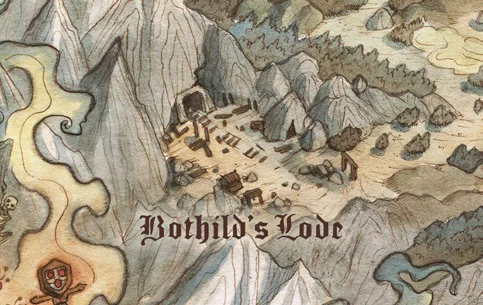
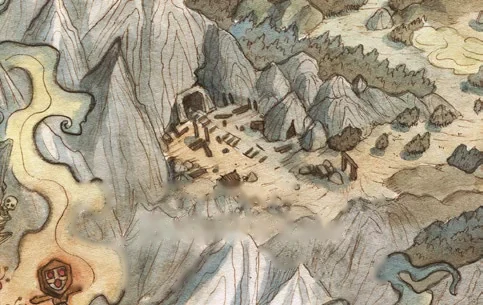
Dragonbane: Begriffe ans Regelbuch angeglichen, englische Schrift aus Titelbildern entfernt

diff --git a/dragonbane/js/data/ab-pg-herz-c.js b/dragonbane/js/data/ab-pg-herz-c.js
@@ -118,7 +118,7 @@ A.bereiche.push(
    "Unabhängig davon, ob und wie die Charaktere antworten, fährt er unbekümmert fort:",
    {zit:["„Ihr amüsiert mich. Deshalb gebe ich euch eine Chance zu überleben und jedem, dem ihr begegnet, von eurem Gespräch mit dem künftigen Herrscher dieser Welt zu erzählen: Dakoth, König der Könige, Kaiser der Kaiser. Ich habe nur eine winzige Forderung … Das Herz bleibt hier, bei mir.“"]},
    "**Kampf:** Die Wahrscheinlichkeit, dass die Spielercharaktere gehorchen, ist natürlich gering, also beginnt der Kampf wahrscheinlich, auf Initiative der Charaktere oder weil Dakoth des Wartens auf ihre Antwort müde wird.",
-   "**Die Leibwächter** beschützen ihren Meister, was bedeutet, dass die Charaktere ihn nicht leicht im Nahkampf angreifen können und bei Fernangriffen auf ihn einen Nachteil erhalten. Die Leibwächter nutzen *Wächter* und ihre anderen Heldentalente so oft wie möglich, bis ihnen die WP ausgehen.",
+   "**Die Leibwächter** beschützen ihren Meister, was bedeutet, dass die Charaktere ihn nicht leicht im Nahkampf angreifen können und bei Fernangriffen auf ihn einen Nachteil erhalten. Die Leibwächter nutzen *Wächter* und ihre anderen Heroische Talente so oft wie möglich, bis ihnen die WP ausgehen.",
    "**Morgasa** greift ein, wenn die Charaktere sie überzeugt haben, ihnen zu helfen. In diesem Fall nimmt sie sich einen der Leibwächter vor, was bedeutet, dass du die beiden ignorieren kannst, während sie miteinander kämpfen (Morgasa gewinnt mit knapper Not), und die Spielercharaktere es mit Dakoth und dem anderen Leibwächter zu tun bekommen.",
    "**Dakoth** selbst setzt seine Magie mit maximaler Wirkung ein. Er ist ein Meisterzauberer und kann daher zwei Zauber pro Zug wirken. Siehe den Kasten auf S. 148. Beachte auch, dass sein Stab zusätzliche WP enthält.",
    "**Das Herz der Finsternis** kann von den Spielercharakteren im Kampf benutzt werden, und seine mächtigen Wirkungen (siehe den Kasten auf S. 145) können durchaus den Ausgang bestimmen.",
@@ -175,7 +175,7 @@ A.bereiche.push(
    "Werden alle Spielercharaktere besiegt und gelingt es ihnen nicht, das Herz zu zerstören, sinkt Sathmog nach dem Kampf wieder in den Boden – er ist noch nicht stark genug, um durchzubrechen –, aber das Herz der Finsternis überlebt und wird von einem vorbeikommenden NSC gefunden. Wer das ist, liegt bei dir.",
    "Gelingt es den Charakteren, das Herz auf dem Altar mit dem Dolch zu durchbohren, ist ihre Prüfung endlich vorbei. Lies oder spiele Folgendes vor:",
    {zit:["Das kleine Herz beginnt schneller und härter zu schlagen, als der Dolch gehoben wird. Aber es ist wehrlos, der Klinge des Dolches ausgeliefert. Als die Spitze das Herz durchbohrt, wirft euch eine plötzliche Druckwelle taumelnd zurück. Der Dämonenkopf sinkt zurück in den Boden, während die Druckwelle die toten Bäume um euch herum rascheln und schwanken lässt. Wenige Augenblicke später herrscht völlige Stille. Erst dann bemerkt ihr, dass derjenige, der das Messer ins Herz gestoßen hat, leblos am Boden liegt."]},
-   "Der Spielercharakter, der das Herz durchbohrt hat, hat alle TP verloren und muss Todeswürfe machen (Regelbuch S. 50). Andere können normal versuchen, das Leben des Charakters zu retten. Hier ist es auch angemessen, auf eine schwere Verletzung zu würfeln (Regelbuch S. 51). Überlebt der Charakter, erhält er als Belohnung ein zusätzliches Heldentalent seiner Wahl (Kapitel 3 des Regelbuchs). Wenn dieses letzte Zwischenspiel vorbei ist, schließe mit dem Vorlesen des folgenden Textes ab:",
+   "Der Spielercharakter, der das Herz durchbohrt hat, hat alle TP verloren und muss Todeswürfe machen (Regelbuch S. 50). Andere können normal versuchen, das Leben des Charakters zu retten. Hier ist es auch angemessen, auf eine schwere Verletzung zu würfeln (Regelbuch S. 51). Überlebt der Charakter, erhält er als Belohnung ein zusätzliches Heroisches Talent seiner Wahl (Kapitel 3 des Regelbuchs). Wenn dieses letzte Zwischenspiel vorbei ist, schließe mit dem Vorlesen des folgenden Textes ab:",
    {zit:["Es fühlt sich an, als sei euch eine Last von den Schultern genommen worden, ein Druck in eurer Brust lässt nach und verschwindet. Als Erste verleiht diesem Gefühl ein Schwarm kleiner Vögel Ausdruck, der sich in den heller werdenden Himmel erhebt und aus voller Kehle singt – das erste Zeichen dafür, dass das Leben langsam an diesen leblosen Ort zurückkehrt. Der Tote Wald ist befreit, die Welt ist gerettet, und ihr seid die Helden, die es getan haben!"]},
    {h:"Weitere Abenteuer", p:153},
    "*Pfad des Ruhms* ist zu Ende, doch das bedeutet nicht, dass die Abenteuer der Spielercharaktere vorbei sind. Es gibt reichlich Anknüpfungspunkte für weiteres Spiel im Toten Wald, in den Ostlanden oder anderswo, mit selbst erdachten oder vorgefertigten Abenteuern – offiziell oder von anderen unter der Drittanbieterlizenz für *Dragonbane* veröffentlicht.",
@@ -228,14 +228,14 @@ Object.assign(A.figuren, {
   ]}},
  "herz-dakoth":{typ:"nsc", t:"Dakoth", p:148, img:"abenteuer/pg-einf-dakoth", tp:44,
   werte:[["Bewegung","12"],["Rüstung","–"],["TP","44"],["WP","48"]],
-  zl:[["Fertigkeiten","Nekromantie 18 (siehe den Kasten Dakoths Zauber), Mentalismus 17, Elementarmagie 16, Raufen 14, Ausweichen 15"],["Talente","Flinke Füße, Furchtlos, Fokussiert × 15, Meisterzauberer, Robust × 15, Wiesel"],["Zauber","Schrecken, Hand des Todes, Lebensentzug, Magischer Schild, Übertragung, Frost, Steinhaut, Beherrschen"],["Stab","Meisterhaft, mit AUFLADEN und DAUERHAFTIGKEIT, enthält 18 zusätzliche WP."]],
+  zl:[["Fertigkeiten","Nekromantie 18 (siehe den Kasten Dakoths Zauber), Mentalismus 17, Elementarmagie 16, Raufen 14, Ausweichen 15"],["Talente","Flinke Füße, Furchtlos, Konzentriert × 15, Meisterzauberer, Robust × 15, Wiesel"],["Zauber","Schrecken, Hand des Todes, Lebensentzug, Magischer Schild, Übertragung, Frost, Steinhaut, Beherrschen"],["Stab","Meisterhaft, mit AUFLADEN und DAUERHAFTIGKEIT, enthält 18 zusätzliche WP."]],
   text:["Theatralisch, arrogant und vor Selbstvertrauen strotzend. Schon als er als junger Lehrling zum ersten Mal vom Herz der Finsternis erfuhr, wusste er, dass das Herz eines Tages ihm gehören würde. Und nichts in dem Leben, das er bisher geführt hat, deutet darauf hin, dass sein Weg zu etwas anderem als zur Weltherrschaft führen wird.","Einige Jahre lang geschahen so viele andere erstaunliche Dinge, dass er seine Suche nach dem Herzen fast vergaß. Doch verbotene Texte, die er in vergessenen Katakomben unter seiner Heimatstadt Arkand fand, weckten seinen Durst nach der Äußeren Finsternis – einer kalten, bösartigen Macht in der Dunkelheit zwischen den Sternen, die darauf aus ist, alles Leben auszulöschen.","Je mehr Dakoth lernte, desto mächtiger wurde er – aber auch desto machthungriger, was erklärt, warum er mit der Eroberung der Ostlande begann. Nach vielen Wendungen (mehr dazu auf S. 6) ist er nun nur noch einen Haarbreit davon entfernt, seinen Kindheitstraum zu erfüllen, und er ist überzeugt, dass das Herz der Finsternis, verbunden mit der Macht der Äußeren Finsternis, ihn völlig unaufhaltsam machen wird!"]},
  "herz-leibwaechter":{typ:"monster", t:"Dakoths Leibwächter", p:149, img:"abenteuer/pg-herz-skelett-leibwache", tp:36,
   werte:[["Bewegung","10"],["Schadensbonus STÄ","+W6"],["TP","36"],["WP","15"]],
   zl:[["Rüstung","Plattenrüstung (6)"],["Fertigkeiten","Wahrnehmung 6, Ausweichen 8"],["Talente","Berserker, Defensiv, Doppelhieb, Wächter, Robust × 10"],["Waffen","Langschwert (Fertigkeitswert 16, Schaden 2W8), Großer Schild"],["Widerstand","Jeder stechende Schaden wird halbiert (aufgerundet)."],["Immunität","Skelette sind immun gegen Furcht und §Überzeugen§."]], be:"skelett"},
  "herz-karlak":{typ:"nsc", t:"Karlak Sol-Tar & Ash-Ark-Afar", p:150, img:"abenteuer/pg-einf-karlak-sol-tar",
   werte:[["Grimmigkeit","3"],["Größe","Riesig"],["Bewegung","24 (Drache), 10 (Reiter)"],["Rüstung","6 (Drache), 8 (Reiter)"],["TP","84 (Drache), 48 (Reiter)"],["WP","24 (nur Reiter)"]],
-  zl:[["Flügel","Die mächtigen Flügel des Drachen erlauben es ihm, sich frei durch die Luft zu bewegen."],["Heldentalente","Defensiv, Robust × 15"],["Ausrüstung","Langschwert (meisterhaft), Plattenrüstung, Topfhelm, Umhang, acht Rationen Essen."]],
+  zl:[["Flügel","Die mächtigen Flügel des Drachen erlauben es ihm, sich frei durch die Luft zu bewegen."],["Heroische Talente","Defensiv, Robust × 15"],["Ausrüstung","Langschwert (meisterhaft), Plattenrüstung, Topfhelm, Umhang, acht Rationen Essen."]],
   text:["Der Drachenreiter und sein Reittier werden als ein einziges Monster behandelt, jedoch mit getrennten TP. Die Spielercharaktere können wählen, ob sie den Drachen oder den Reiter angreifen – Letzterer kann, solange er auf dem Drachenrücken sitzt, nur mit Fernangriffen oder langen Nahkampfwaffen angegriffen werden.","Wird der Drache getötet, kämpft Karlak Sol-Tar allein weiter (als gewöhnlicher NSC) und kämpft nun bis zum Tod, um sein Reittier zu rächen.","Der Drache hingegen hört auf zu kämpfen, wenn sein Reiter besiegt ist – stattdessen hebt er Karlak Sol-Tar sanft in seinen Klauen auf und fliegt zurück ins Drachenreich im fernen Osten."],
   angriffe:{h:"Monsterangriffe", w:"W6", rows:[
    ["1","**Drachengebrüll!** Ash-Ark-Afar öffnet sein Maul und stößt ein wildes Gebrüll aus. Jeder innerhalb von 20 Metern erleidet einen Furchtangriff, mit einem Nachteil auf den WIL-Wurf."],
@@ -262,7 +262,7 @@ Object.assign(A.kaesten, {
   "Haben die Spielercharaktere Mogdath noch nicht in Tefalas’ Dolch gefangen, begleitet er seinen Meister zum Dämonenturm und ersetzt einen der Leibwächter. Die Charaktere haben dann einen noch schwereren Kampf vor sich, aber auch eine weitere Chance, einen Todeswiedergänger im Dolch zu fangen."]},
  "dakoths-fall":{k:"Dakoths Fall", p:151, b:[
   "Die Konfrontation am Dämonenturm endet höchstwahrscheinlich mit dem Tod des hochmütigen Dakoth.",
-  "Ohne ihren nekromantischen Anführer bricht seine Armee der Untoten zusammen, und seine versklavten Orks fliehen in die Berge und Wälder. Damit haben die Spielercharaktere die Ostlande von einer schrecklichen Geißel befreit und erhalten jeweils ein Heldentalent ihrer Wahl (Kapitel 3 des Regelbuchs). Aber ihre Aufgabe ist noch nicht beendet – der Fluch des Toten Waldes muss noch aufgehoben werden."]}
+  "Ohne ihren nekromantischen Anführer bricht seine Armee der Untoten zusammen, und seine versklavten Orks fliehen in die Berge und Wälder. Damit haben die Spielercharaktere die Ostlande von einer schrecklichen Geißel befreit und erhalten jeweils ein Heroisches Talent ihrer Wahl (Kapitel 3 des Regelbuchs). Aber ihre Aufgabe ist noch nicht beendet – der Fluch des Toten Waldes muss noch aufgehoben werden."]}
 });
 
 A.handouts.push(

diff --git a/dragonbane/js/data/ab-trollspitze.js b/dragonbane/js/data/ab-trollspitze.js
@@ -91,7 +91,7 @@ DB_AB.trollspitze = {
  ],
  figuren:{
   "troll-ambrosius":{"typ":"monster","t":"Ambrosius, die Kröte","p":69,"img":"abenteuer/trollspitze-ambrosius","tp":24,"werte":[["Grimmigkeit","Anzahl SC −1 (mind. 1)"],["Größe","Klein"],["Bewegung","8"],["Rüstung","–"],["TP","24"]],"zl":[["Sich tot stellen","Verliert Ambrosius die Hälfte seiner TP, rollt er sich auf den Rücken und stellt sich tot. Bei Gelegenheit greift er wieder an."]],"text":["Die gehörnte Kröte Ambrosius ist so groß wie ein Hund und das Ergebnis von Hargas Experimenten. Er bewacht gegen Eindringlinge, frisst aber auch die Fliegen, die die magische Forschung der Trollfrau störten. Ambrosius hält still und leise; nur wenn er gefressen hat, hört man ihn zufrieden quaken."],"angriffe":{"h":"Monsterangriffe","w":"W4","rows":["**Kopfstoß!** Die Kröte springt hoch und stößt einen Spielercharakter mit dem Kopf, was 2W4 Wuchtschaden verursacht und das Opfer umwirft.","**Giftiger Biss!** Ambrosius beißt einen Spielercharakter ins Bein. Der Biss verursacht W10 hauenden Schaden, und ein Opfer, das mindestens einen Punkt Schaden erleidet, bekommt zusätzlich ein lähmendes Gift mit Wirkstärke 12 injiziert.","**Spuckangriff!** Ambrosius zielt mit einem riesigen Batzen Spucke auf einen Spielercharakter innerhalb von 10 Metern. Die Spucke verursacht W6 Schaden, und ein Opfer, das mindestens einen Punkt Schaden erleidet, wird zusätzlich von einem lähmenden Gift mit Wirkstärke 12 getroffen.","**Entwaffnende Zunge!** Die Kröte schnellt ihre lange Zunge auf einen Spielercharakter innerhalb von 6 Metern und entreißt ihm eine Waffe aus der Hand. Die Waffe landet in Ambrosius’ Nest."]}},
-  "troll-harga":{"typ":"nsc","t":"Harga","p":70,"img":"abenteuer/trollspitze-harga","tp":28,"werte":[["Bewegung","8"],["Schadensbonus STÄ","+W4"],["TP","28"],["WP","16"]],"zl":[["Rüstung","–"],["Fertigkeiten","Animismus 16, Mentalismus 17, Ausweichen 8, Heilkunde 15"],["Zauber","Herbeiholen, Licht, Öffnen/Schließen, Magie spüren, Bannen, Fesselnde Wurzeln, Abschließen/Aufschließen, Kraftfaust, Steinhaut, Geistesschlag, Hellsehen, Telepathie, Beherrschen"],["Ausrüstung","Schöpflöffel (Fertigkeitswert 13, Schaden W8)"]],"text":["Harga ist eine sehr kleine alte Trollfrau, die nach Rauch stinkt und ein Kopftuch und eine Tunika aus mehrlagigem Stoff trägt. Sie benutzt keine Monsterangriffe, sondern wird wie ein gewöhnlicher NSC behandelt. Harga kann den Spielercharakteren Tränke zu dem im Regelbuch (S. 79) angegebenen Preis verkaufen. Wenn sie sie gut bezahlen, kann Harga ihnen auch ihre Fertigkeiten und Magie beibringen."]},
+  "troll-harga":{"typ":"nsc","t":"Harga","p":70,"img":"abenteuer/trollspitze-harga","tp":28,"werte":[["Bewegung","8"],["Schadensbonus STÄ","+W4"],["TP","28"],["WP","16"]],"zl":[["Rüstung","–"],["Fertigkeiten","Animismus 16, Mentalismus 17, Ausweichen 8, Heilkunde 15"],["Zauber","Herbeiholen, Licht, Öffnen/Schließen, Magie spüren, Bannen, Fesselnde Wurzeln, Abschließen/Aufschließen, Kraftfaust, Steinhaut, Geistesschlag, Rückschau, Telepathie, Beherrschen"],["Ausrüstung","Schöpflöffel (Fertigkeitswert 13, Schaden W8)"]],"text":["Harga ist eine sehr kleine alte Trollfrau, die nach Rauch stinkt und ein Kopftuch und eine Tunika aus mehrlagigem Stoff trägt. Sie benutzt keine Monsterangriffe, sondern wird wie ein gewöhnlicher NSC behandelt. Harga kann den Spielercharakteren Tränke zu dem im Regelbuch (S. 79) angegebenen Preis verkaufen. Wenn sie sie gut bezahlen, kann Harga ihnen auch ihre Fertigkeiten und Magie beibringen."]},
   "troll-harpyien":{"typ":"monster","t":"Distel, Stachel und Dorn","p":72,"be":"harpyie","text":["Die auf dem Turm nistenden Harpyien sind die drei Schwestern Distel, Stachel und Dorn – verschlagene Geschöpfe, die ihr Zuhause als Ausguck nutzen, wenn sie nach Beute suchen. Sie leben sicher zwischen den Rosenbüschen, baden mit Vergnügen im Regenwassertümpel und parfümieren sich mit Rosennektar. Sie sind immun gegen den Duft der Rosen.","Sie haben die Werte von Harpyien nach dem Regelbuch, S. 92. Werden zwei von ihnen getötet, zieht sich die letzte zum höchsten Punkt des Turms zurück und greift möglicherweise erneut an."]},
   "troll-waechter":{"typ":"monster","t":"Untote Wächter","p":73,"tp":24,"werte":[["Bewegung","10"],["Schadensbonus STÄ","+W6"],["TP","24"],["WP","15"]],"zl":[["Rüstung","Kettenhemd (4)"],["Fertigkeiten","Wahrnehmung 12, Raufen 14, Ausweichen 8"],["Talente","Defensiv, Doppelhieb, Robust × 4, Veteran"],["Waffen","Langschwert (Fertigkeitswert 16, Schaden 2W8), Großer Schild"],["Widerstand","Aller stechende Schaden wird halbiert (aufgerundet)."],["Immunität","Skelette sind immun gegen Furcht und §Überzeugen§."]],"text":[]}
  },

diff --git a/dragonbane/js/data/ab-nebeltal-reisen.js b/dragonbane/js/data/ab-nebeltal-reisen.js
@@ -45,7 +45,7 @@ DB_AB["nebeltal-reisen"] = {
     ["8","**Jagdfalle.** Unter einem Haufen alter Blätter verbirgt sich ein rostiges Bärenfangeisen. Lass alle Spielercharaktere in der Reihenfolge, in der sie gehen, einen §Wahrnehmung§-Wurf machen. Die erste Person, die scheitert, löst die Falle aus und erleidet W6 Stichschaden."],
     ["9","**Riesenspinne.** Eine ausgehungerte Riesenspinne (S. 89 im Regelbuch) hat ihr Netz quer über den Pfad gespannt. Alle Spielercharaktere müssen einen §Wahrnehmung§-Wurf machen – wer scheitert, verfängt sich im Netz der Spinne (Monsterangriff #5 auf S. 89 im Regelbuch), und die Spinne greift in der nächsten Runde an. Die gefangenen Charaktere müssen mit einem Nachteil auf STÄ würfeln, um sich zu befreien."],
     ["10","**Ruhelose Geister.** Leuchtende Gestalten von Orks in zerbrochenen Rüstungen schweben über den Sumpf. Die Spielercharaktere müssen einen WIL-Wurf machen, um der Furcht zu widerstehen (S. 62 im Regelbuch). Es sind die Geister von Orks, die im Kampf um den Turm der Seufzer gefallen sind."],
-    ["11","**Die Kräuterkundige.** Die Spielercharaktere begegnen einer alten Kräuterkundigen namens Elmina, die in einer Hütte im Sumpf lebt. Sie kann ihnen den Weg zum Turm der Seufzer weisen und sie vor einem Riesen und einer Räuberbande warnen, die dort hausen. Für ein paar Goldmünzen bietet Elmina den Spielercharakteren auch ihre Dienste als Heilerin an oder bringt ihnen sogar ihre Fertigkeiten bei. Elmina hat §Heilkunde§ 16, §Animismus§ 15 und kennt die Zauber §Essen kochen§, §Reinigen§, §Verbannen§, §Wunde heilen§, §Fesselnde Wurzeln§ und §Tierflüsterer§."],
+    ["11","**Die Kräuterkundige.** Die Spielercharaktere begegnen einer alten Kräuterkundigen namens Elmina, die in einer Hütte im Sumpf lebt. Sie kann ihnen den Weg zum Turm der Seufzer weisen und sie vor einem Riesen und einer Räuberbande warnen, die dort hausen. Für ein paar Goldmünzen bietet Elmina den Spielercharakteren auch ihre Dienste als Heilerin an oder bringt ihnen sogar ihre Fertigkeiten bei. Elmina hat §Heilkunde§ 16, §Animismus§ 15 und kennt die Zauber §Essen kochen§, §Austreiben§, §Verbannen§, §Wunde heilen§, §Fesselnde Wurzeln§ und §Tierflüsterer§."],
     ["12","**Irrlichter.** Die Sumpfvegetation wird höher und dichter. In der Dunkelheit unter den Bäumen erleuchten Irrlichter den Boden. Jeder Spielercharakter muss einen WIL-Wurf machen, um nicht in den Sumpf gelockt zu werden.\nWer scheitert, steckt bald im Schlamm fest und muss mit einem Nachteil auf §Ausweichen§ würfeln, um nicht zu versinken und zu ertrinken (S. 53 im Regelbuch). Ein anderer Spielercharakter kann das Opfer mit einem gelungenen §Akrobatik§-Wurf retten, doch bei einem Fehlschlag beginnt auch er zu versinken."]
    ]},
    {id:"zb-gebirge", h:"Zufallsbegegnungen am Fuß der Berge", p:32, cols:["W12","Ereignis"], rows:[
@@ -62,7 +62,7 @@ DB_AB["nebeltal-reisen"] = {
  },
  figuren:{
   "nebeltal-tylos":{typ:"nsc", t:"Tylos", p:30, zl:[["Werte","Wie Isadelia (S. 84), samt Ausrüstung; reitet ein kampfgeschultes Pferd"]], text:["Der Drachenritter, ein Mitglied der Hüter der Makellosen Flamme; ihr Zeichen ist auch auf seiner Rüstung zu sehen."]},
-  "nebeltal-elmina":{typ:"nsc", t:"Elmina", p:31, werte:[], zl:[["Fertigkeiten","§Heilkunde§ 16, §Animismus§ 15"],["Zauber","§Essen kochen§, §Reinigen§, §Verbannen§, §Wunde heilen§, §Fesselnde Wurzeln§, §Tierflüsterer§"]], text:["Alte Kräuterkundige, die in einer Hütte im Sumpf lebt."]},
+  "nebeltal-elmina":{typ:"nsc", t:"Elmina", p:31, werte:[], zl:[["Fertigkeiten","§Heilkunde§ 16, §Animismus§ 15"],["Zauber","§Essen kochen§, §Austreiben§, §Verbannen§, §Wunde heilen§, §Fesselnde Wurzeln§, §Tierflüsterer§"]], text:["Alte Kräuterkundige, die in einer Hütte im Sumpf lebt."]},
   "nebeltal-sephyra":{typ:"nsc", t:"Sephyra", p:32, werte:[], zl:[["Fertigkeiten","§Elementarismus§ 15"],["Zauber","§Frost§, §Windstoß§, §Wirbelwind§"]], text:["Elementarmagierin, die versucht, den Westwind zu bezwingen."]},
   "nebeltal-harpyien":{typ:"monster", t:"Harpyien", p:29, be:"harpyie", text:["Drei Harpyien."]},
   "nebeltal-geist":{typ:"monster", t:"Geist", p:29, be:"geist", text:["Eine schimmernde blaue Frau mit leeren Augenhöhlen."]},

diff --git a/dragonbane/js/data/ab-aussenposten-b.js b/dragonbane/js/data/ab-aussenposten-b.js
@@ -14,7 +14,7 @@ Object.assign(DB_AB["aussenposten"].figuren, {
  "badinor":{"typ":"nsc","t":"Badinor","p":24,"img":"abenteuer/aussenposten-badinor","tp":14,"werte":[["Bewegung","6"],["Schadensbonus STÄ","+W4"],["TP","14"],["WP","15"]],"zl":[["Rüstung","Leder (1)"],["Fertigkeiten","Handwerk 15, Ausweichen 6"],["Talente","Meisterschmied"],["Waffen","Streitaxt (Fertigkeitswert 13, Schaden 2W8), leichte Armbrust (Fertigkeitswert 12, Schaden 2W6)"]],"text":["Badinor ist ein mürrischer, wortkarger Zwerg, der sich unter Felsen wohler fühlt als unter Lebewesen.","Er spricht mit den Mineralien in ihrer eigenen Sprache, und manchmal singt er sogar – sowohl zu seinem Gestein als auch zu formbaren Metallstücken – in einer uralten Zunge, die nicht einmal Okald versteht. Dennoch ist Badinor ein geschickter Schmied, der bei allen im Dorf Respekt genießt."]},
  "semolina":{"typ":"nsc","t":"Semolina Chubbycheeks","p":25,"img":"abenteuer/aussenposten-semolina","tp":12,"werte":[["Bewegung","8"],["Schadensbonus","–"],["TP","12"]],"zl":[["Rüstung","Leder (1)"],["Fertigkeiten","Ausweichen 12, Heilkunde 9, Heimlichkeit 13"],["Waffen","Holzkeule (Fertigkeitswert 8, Schaden W8)"]],"text":["Semolina ist eine ungewöhnlich muskulöse Halblingsfrau mit kräftigen Oberarmen und einer mehlbestäubten Schürze. Sie hält die Mühlräder am Laufen und erzeugt das Mehl, das nötig ist, um den Hunger der Dorfbewohner zu stillen."]},
  "baryton":{"typ":"nsc","t":"Baryton Chubbycheeks","p":25,"img":"abenteuer/aussenposten-baryton","tp":10,"werte":[["Bewegung","8"],["Schadensbonus","–"],["TP","10"]],"zl":[["Rüstung","–"],["Fertigkeiten","Ausweichen 14, Überzeugen 15, Heimlichkeit 14"],["Waffen","Dolch (Fertigkeitswert 12, Schaden W8)"]],"text":["Baryton ist ein pummeliger, aber eleganter Halbling mit hübschen Locken und einem gewinnenden Lächeln. Er ist für Lagerhaltung und Verkauf zuständig und backt das Brot. Er ist ständig gestresst und sorgt sich, dass ihre Vorräte nicht reichen könnten, um ihre zahlreichen Sprösslinge zu ernähren."]},
- "dranath":{"typ":"nsc","t":"Dranath","p":26,"img":"abenteuer/aussenposten-dranath","tp":12,"werte":[["Bewegung","8"],["Schadensbonus","–"],["TP","12"],["WP","16"]],"zl":[["Rüstung","–"],["Fertigkeiten","Animismus 16, Heilkunde 15, Fremdsprachen 13, Mythen & Legenden 15"],["Zauber","Magie spüren, Magie bannen, Beschützer, Magischer Schild, Verbannen, Fesselnde Wurzeln, Lichtblitz, Wunde versorgen, Wunde heilen, Blitzschlag, Reinigen"],["Waffen","Stab (Fertigkeitswert 12, Schaden W8)"]],"text":["Dranath ist schrumpelig wie eine verschrumpelte Backpflaume und hat kein einziges Haar am Körper. Er trägt ein sackartiges Gewand und geht bei jedem Wetter barfuß. Trotz seiner Askese lässt sich Dranath mit Süßigkeiten verlocken, und ein Krug Met genügt meist, um ihm die Zunge zu lösen."]},
+ "dranath":{"typ":"nsc","t":"Dranath","p":26,"img":"abenteuer/aussenposten-dranath","tp":12,"werte":[["Bewegung","8"],["Schadensbonus","–"],["TP","12"],["WP","16"]],"zl":[["Rüstung","–"],["Fertigkeiten","Animismus 16, Heilkunde 15, Fremdsprachen 13, Mythen & Legenden 15"],["Zauber","Magie spüren, Bannen, Schutzzeichen, Magischer Schild, Verbannen, Fesselnde Wurzeln, Blitzstrahl, Wunde versorgen, Wunde heilen, Blitzschlag, Austreiben"],["Waffen","Stab (Fertigkeitswert 12, Schaden W8)"]],"text":["Dranath ist schrumpelig wie eine verschrumpelte Backpflaume und hat kein einziges Haar am Körper. Er trägt ein sackartiges Gewand und geht bei jedem Wetter barfuß. Trotz seiner Askese lässt sich Dranath mit Süßigkeiten verlocken, und ein Krug Met genügt meist, um ihm die Zunge zu lösen."]},
  "um-durman":{"typ":"nsc","t":"Um-Durman","p":27,"img":"abenteuer/aussenposten-um-durman","werte":[["Art","Großschwert"],["STÄ-Anforderung","13"],["Haltbarkeit","18"]],"zl":[["Besonderheit","Besondere Version von WAFFE VERZAUBERN mit DAUERHAFTIGKEIT – trifft das Schwert einen Drachen oder Dämon, zählt der Angriff automatisch als Drachenwurf."]],"text":["Meisterlich gefertigte Waffe mit schönen Verzierungen und einem juwelenbesetzten Heft."]}
 });
 Object.assign(DB_AB["aussenposten"].kaesten, {

diff --git a/dragonbane/js/data/ab-pg-herz-a.js b/dragonbane/js/data/ab-pg-herz-a.js
@@ -311,11 +311,11 @@ DB_AB["pg-herz"] = {
    text:["Dem narbigen Orkhäuptling Uhuluk wurden in einem Kampf beide Hauer des Unterkiefers abgeschlagen, und sein Kopf wurde mit einer an den Schädel geschraubten Metallplatte repariert. Er erinnert sich mit Stolz an die Tage, als er seinen Clan auf Raubzüge in alle Himmelsrichtungen führte, bevor Dakoth mit seinen Untoten kam und ihn zur Unterwerfung zwang."], be:"ork"},
   "herz-fidelia":{typ:"nsc", t:"Fidelia", p:110, img:"abenteuer/pg-herz-fidelia", tp:14,
    werte:[["Bewegung","12"],["Schadensbonus GEW","+W4"],["TP","14"],["WP","18"]],
-   zl:[["Rüstung","–"],["Fertigkeiten","Animismus 16*, Ausweichen 14, Heilkunde 15"],["Zauber","Fesselnde Wurzeln, Wunde heilen, Reinigen, Schlaf, Wiederbelebung"],["Waffen","Dolch (Fertigkeitswert 15, Schaden W8)"]],
+   zl:[["Rüstung","–"],["Fertigkeiten","Animismus 16*, Ausweichen 14, Heilkunde 15"],["Zauber","Fesselnde Wurzeln, Wunde heilen, Austreiben, Schlaf, Auferweckung"],["Waffen","Dolch (Fertigkeitswert 15, Schaden W8)"]],
    text:["Als erster Mensch, der das Amt des Hohepriesters des Sathmog-Kultes innehat, ist Fidelia besonders eifrig und starrsinnig. Sie hat wenig Mitgefühl für Faulenzer und Schwächlinge, Kranke und Alte. Sathmog lehrt, dass jeder der Schmied seines Glückes ist. Doch die Ankunft Dakoths und die Revolte der Orks haben Fidelia gezwungen, sich widerwillig um die Dorfbewohner zu kümmern. Fidelia trägt gewöhnlich ihr offizielles Gewand – eine schwarze Kutte mit dem in Goldfaden aufgestickten Symbol Sathmogs.","* Fidelias „Animismus“ besteht aus der Kommunikation mit allerlei dämonischen Wesen."]},
   "herz-gultrub":{typ:"nsc", t:"Gultrub", p:110, img:"abenteuer/pg-herz-gultrub", tp:32,
    werte:[["Bewegung","10"],["Schadensbonus","–"],["TP","32"],["WP","38"]],
-   zl:[["Rüstung","–"],["Fertigkeiten","Dämonologie 17, Ausweichen 14"],["Zauber","Bannen, Magischer Schild, Übertragung, Käferschwarm, Darmwurm, Dämon beschwören, Dämonische Versetzung (siehe Dämonologie auf S. 112)"],["Talente","Flinke Füße, Fokussiert × 10, Meisterzauberer, Robust × 10"],["Waffen","Stab (Fertigkeitswert 14, Schaden W8)"]],
+   zl:[["Rüstung","–"],["Fertigkeiten","Dämonologie 17, Ausweichen 14"],["Zauber","Bannen, Magischer Schild, Übertragung, Käferschwarm, Darmwurm, Dämon beschwören, Dämonische Versetzung (siehe Dämonologie auf S. 112)"],["Talente","Flinke Füße, Konzentriert × 10, Meisterzauberer, Robust × 10"],["Waffen","Stab (Fertigkeitswert 14, Schaden W8)"]],
    text:["Gultrub ist verbittert. Und wütend. Und dank seines Zwergenbluts in Verbindung mit dämonischen Segnungen entsetzlich alt und deshalb ziemlich senil. Er glaubt, dass sowohl Sathmog als auch die Dorfgemeinde ihn im Stich gelassen haben, und nun ist die Zeit der Rache gekommen!","Nach der Orkrevolte nahm Gultrub Kontakt zu Dakoth auf, dem Todfeind Sathmogs, und erzählte ihm, was geschehen war. Er bot an, Dakoths Streitkräften bei der Eroberung des Dorfes zu helfen, im Austausch dafür, dessen neuer Verwalter in Dakoths Diensten zu werden. Er ist bereit, alles zu tun, um ein Bündnis der Dorfbewohner mit den Orks zu verhindern. Gultrub hat außerdem den Feuerdämon Azarizag zur Unterstützung beschworen (nächste Seite).","Gultrub ist gewöhnlich in seiner Ritualkammer, wenn er nicht durch die Zitadelle streift, um etwas zu essen zu finden, oder sich bei Fidelia beschwert. Wird er zur Rede gestellt, kämpft er um sein Leben, am liebsten mit Hilfe von Azarizag.","**Das Herz der Finsternis:** Gultrub kennt die ganze Geschichte von Prinz Kalin und dem Herz der Finsternis. Er weiß jedoch nicht, wo das Herz gelandet ist oder wo Kalin begraben liegt. Du kannst den Charakteren die Gelegenheit geben, ihn danach zu fragen – vielleicht als seine letzten Worte, wenn er im Kampf besiegt wird."]},
   "herz-dorfbewohner":{typ:"nsc", t:"Dorfbewohner", p:110, tp:12,
    werte:[["Bewegung","10"],["Schadensbonus","–"],["TP","12"]],

diff --git a/sw.js b/sw.js
@@ -1,6 +1,6 @@
 // Offline-Cache. Bei jeder Änderung an index.html die Version erhöhen,
 // damit installierte Apps die neue Fassung laden.
-const VERSION = "v753sp";
+const VERSION = "v754sp";
 const CACHE = "erzaehler-tafel-" + VERSION;
 const FILES = [
   "./",
